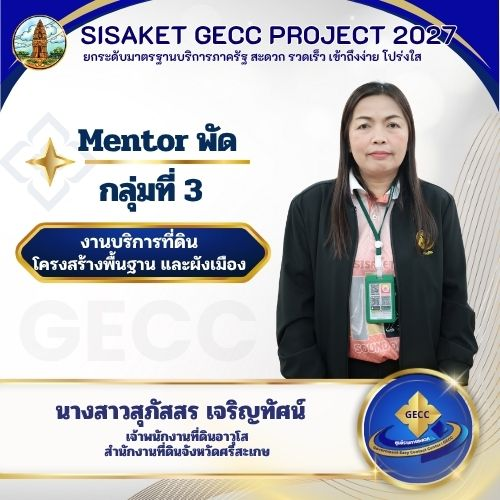
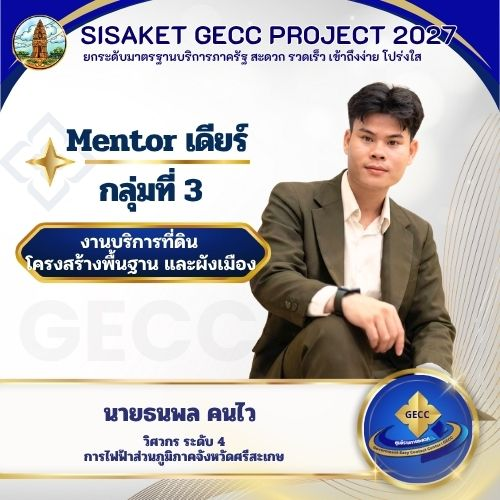
Update mentor photos for Group 3 person 2, Group 4 person 2 and person 3

diff --git a/index.html b/index.html
@@ -1,4 +1,4 @@
-<!doctype html>
+<!doctype html>
 <html lang="th">
 <head>
 <meta charset="utf-8">
@@ -2636,7 +2636,7 @@ const MENTOR_MEMBERS = {
       [
         "นางสาวสุภัสสร เจริญทัศน์",
         "เจ้าพนักงานที่ดินอาวุโส สำนักงานที่ดินจังหวัดศรีสะเกษ",
-        "assets/images/mentor-group-3-2.jpg",
+        "assets/images/mentor-group-3-2.jpg?v=2570b",
         "MENTOR"
       ],
       [
@@ -2665,13 +2665,13 @@ const MENTOR_MEMBERS = {
       [
         "น.ส.นุชรินทร์ วงศ์ฤทธิ์",
         "นักบัญชี 7 การประปาส่วนภูมิภาคสาขาศรีสะเกษ",
-        "assets/images/mentor-group-4-2.jpg",
+        "assets/images/mentor-group-4-2.jpg?v=2570b",
         "MENTOR"
       ],
       [
         "นางจิราภรณ์ นาดูน",
         "พนักงานการเงินและบัญชี 6 การประปาส่วนภูมิภาคสาขาศรีสะเกษ",
-        "assets/images/mentor-group-4-3.jpg",
+        "assets/images/mentor-group-4-3.jpg?v=2570b",
         "MENTOR"
       ],
       [
